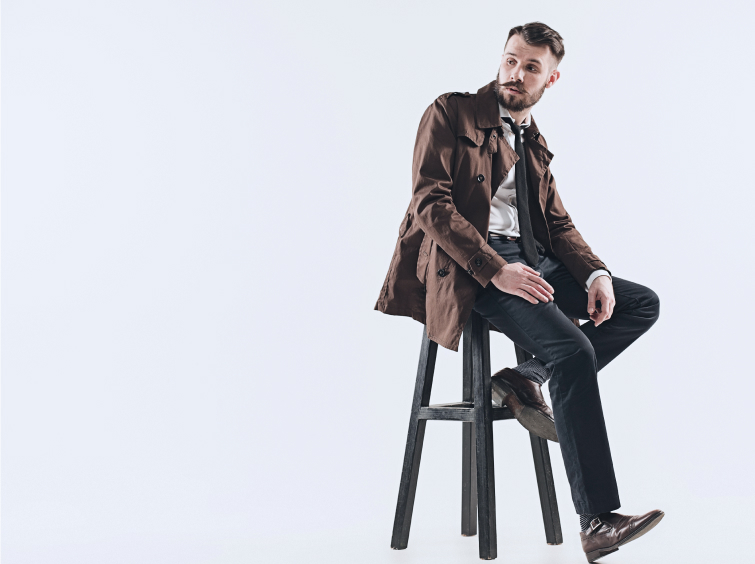
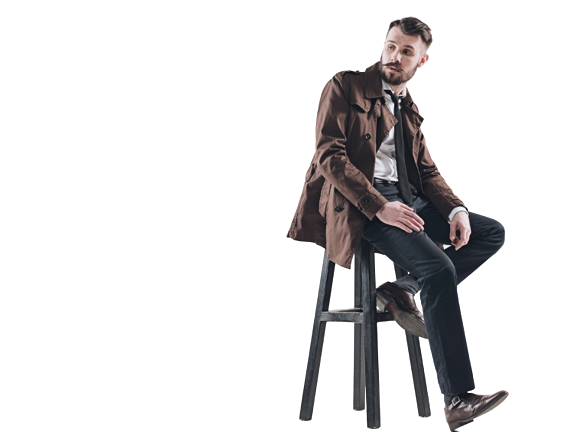
hero area added

diff --git a/src/components/pages/hero/Hero.js b/src/components/pages/hero/Hero.js
@@ -1,5 +1,5 @@
 import React from 'react';
-import youngMan from "../../../images/hero-part/youngman.jpg";
+import youngMan from "../../../images/hero-part/youngman2.png";
 import delivery1 from "../../../images/hero-part/delivary1.png"
 import delivery2 from "../../../images/hero-part/delivary2.png"
 import Container from '../Container';
@@ -7,16 +7,23 @@ import Container from '../Container';
 const Hero = () => {
     return (
         <Container>
-            <div className='grid grid-cols-2 gap-4'>
-                <div>
-                    <img src={youngMan} alt="" />
-                </div>
-                <div className='grid grid-rows-2 gap-4'>
-                    <div>
-                        <img className='[w-478px] [h-320px]' src={delivery1} alt="" />
+            <div className='lg:flex items-center justify-between gap-8'>
+                <div className='bg-[#EBF0F9] md:flex items-center justify-between  md:h-[450px] w-mx-auto px-[35px]'>
+                    <div className=''>
+                        <h2 className='text-[#0970CD] font-bold text-4xl'>Explore Men’s <br /> Winter Collection</h2>
+                        <p className='text-[#646464] text-base mt-6'>Lorem ipsum dolor sit amet, consectetur adipiscing elit, sed do eiusmod tempor. </p>
+                        <button className='text-xs bg-[#0198E9] rounded-md text-white py-2 px-4 mt-4'>SHOP NOW</button>
                     </div>
                     <div>
-                        <img src={delivery2} alt="" />
+                        <img className='' src={youngMan} alt="" />
+                    </div>
+                </div>
+                <div className='md:grid grid-rows-2  gap-4 lg:h-[450px] w-mx-auto md:mt-5 lg:mt-0 mt-4'>
+                    <div>
+                        <img className='lg:w-[500px] lg:h-full' src={delivery1} alt="" />
+                    </div>
+                    <div>
+                        <img className='lg:w-[500px] lg:h-full' src={delivery2} alt="" />
                     </div>
                 </div>
             </div>
